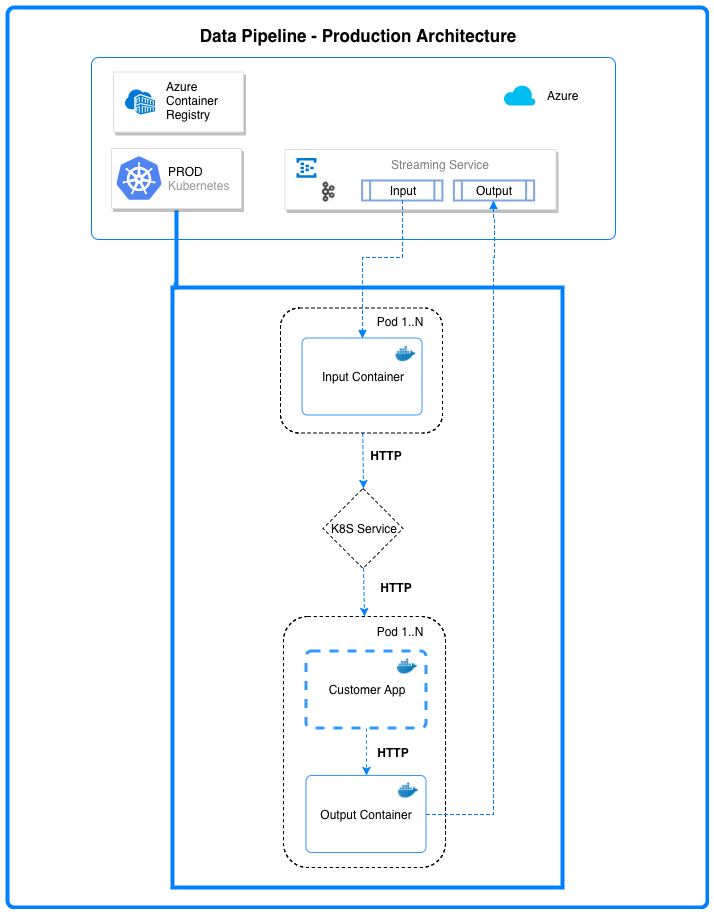
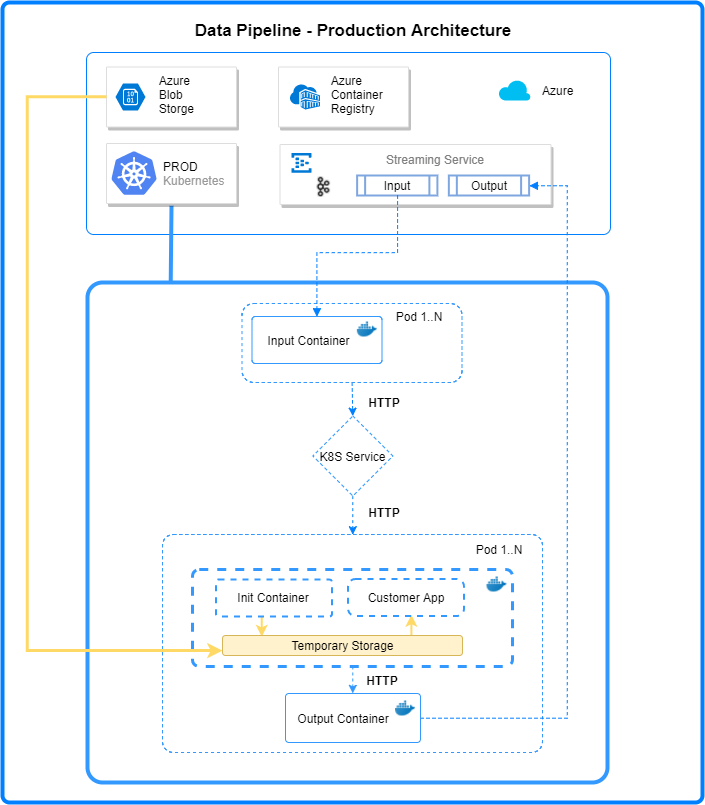
Update design with Init container  (#179)

Changed region(s): [[0.0, 0.0, 1.0, 1.0], [0.6865, 0.6522, 0.7489, 0.7453], [0.6865, 0.8075, 0.7177, 0.8385]]

diff --git a/docs/DESIGN.rst b/docs/DESIGN.rst
@@ -22,11 +22,10 @@ removes the need to implement connectors to various messaging services,
 and focus on building the business logic inside the app container while
 implementing a loosely coupled services approach.
 
--  Input container - Receive events from Azure Event Hub / Kafka
--  Customer App - Models implemented in PySpark, Tensorflow,
-   scikit-learn and R.
--  Output container - send the results of the models to Azure Event Hub
-   / Kafka or other data source.
+- Input Container - Receive events from Azure Event Hub / Kafka.
+- Init Container - Loads artifacts before initializing the customer application. The Init container (Artifact Loader)  loads the ML module to a temporary storage which is then accessible to the Customer Application.
+- Customer App - Models implemented in PySpark, Tensorflow, scikit-learn and R.
+- Output Container - send the results of the models to Azure Event Hub / Kafka or other data source.
 
 |Architecure Diagram - Basic Pipeline Building Block|
 
